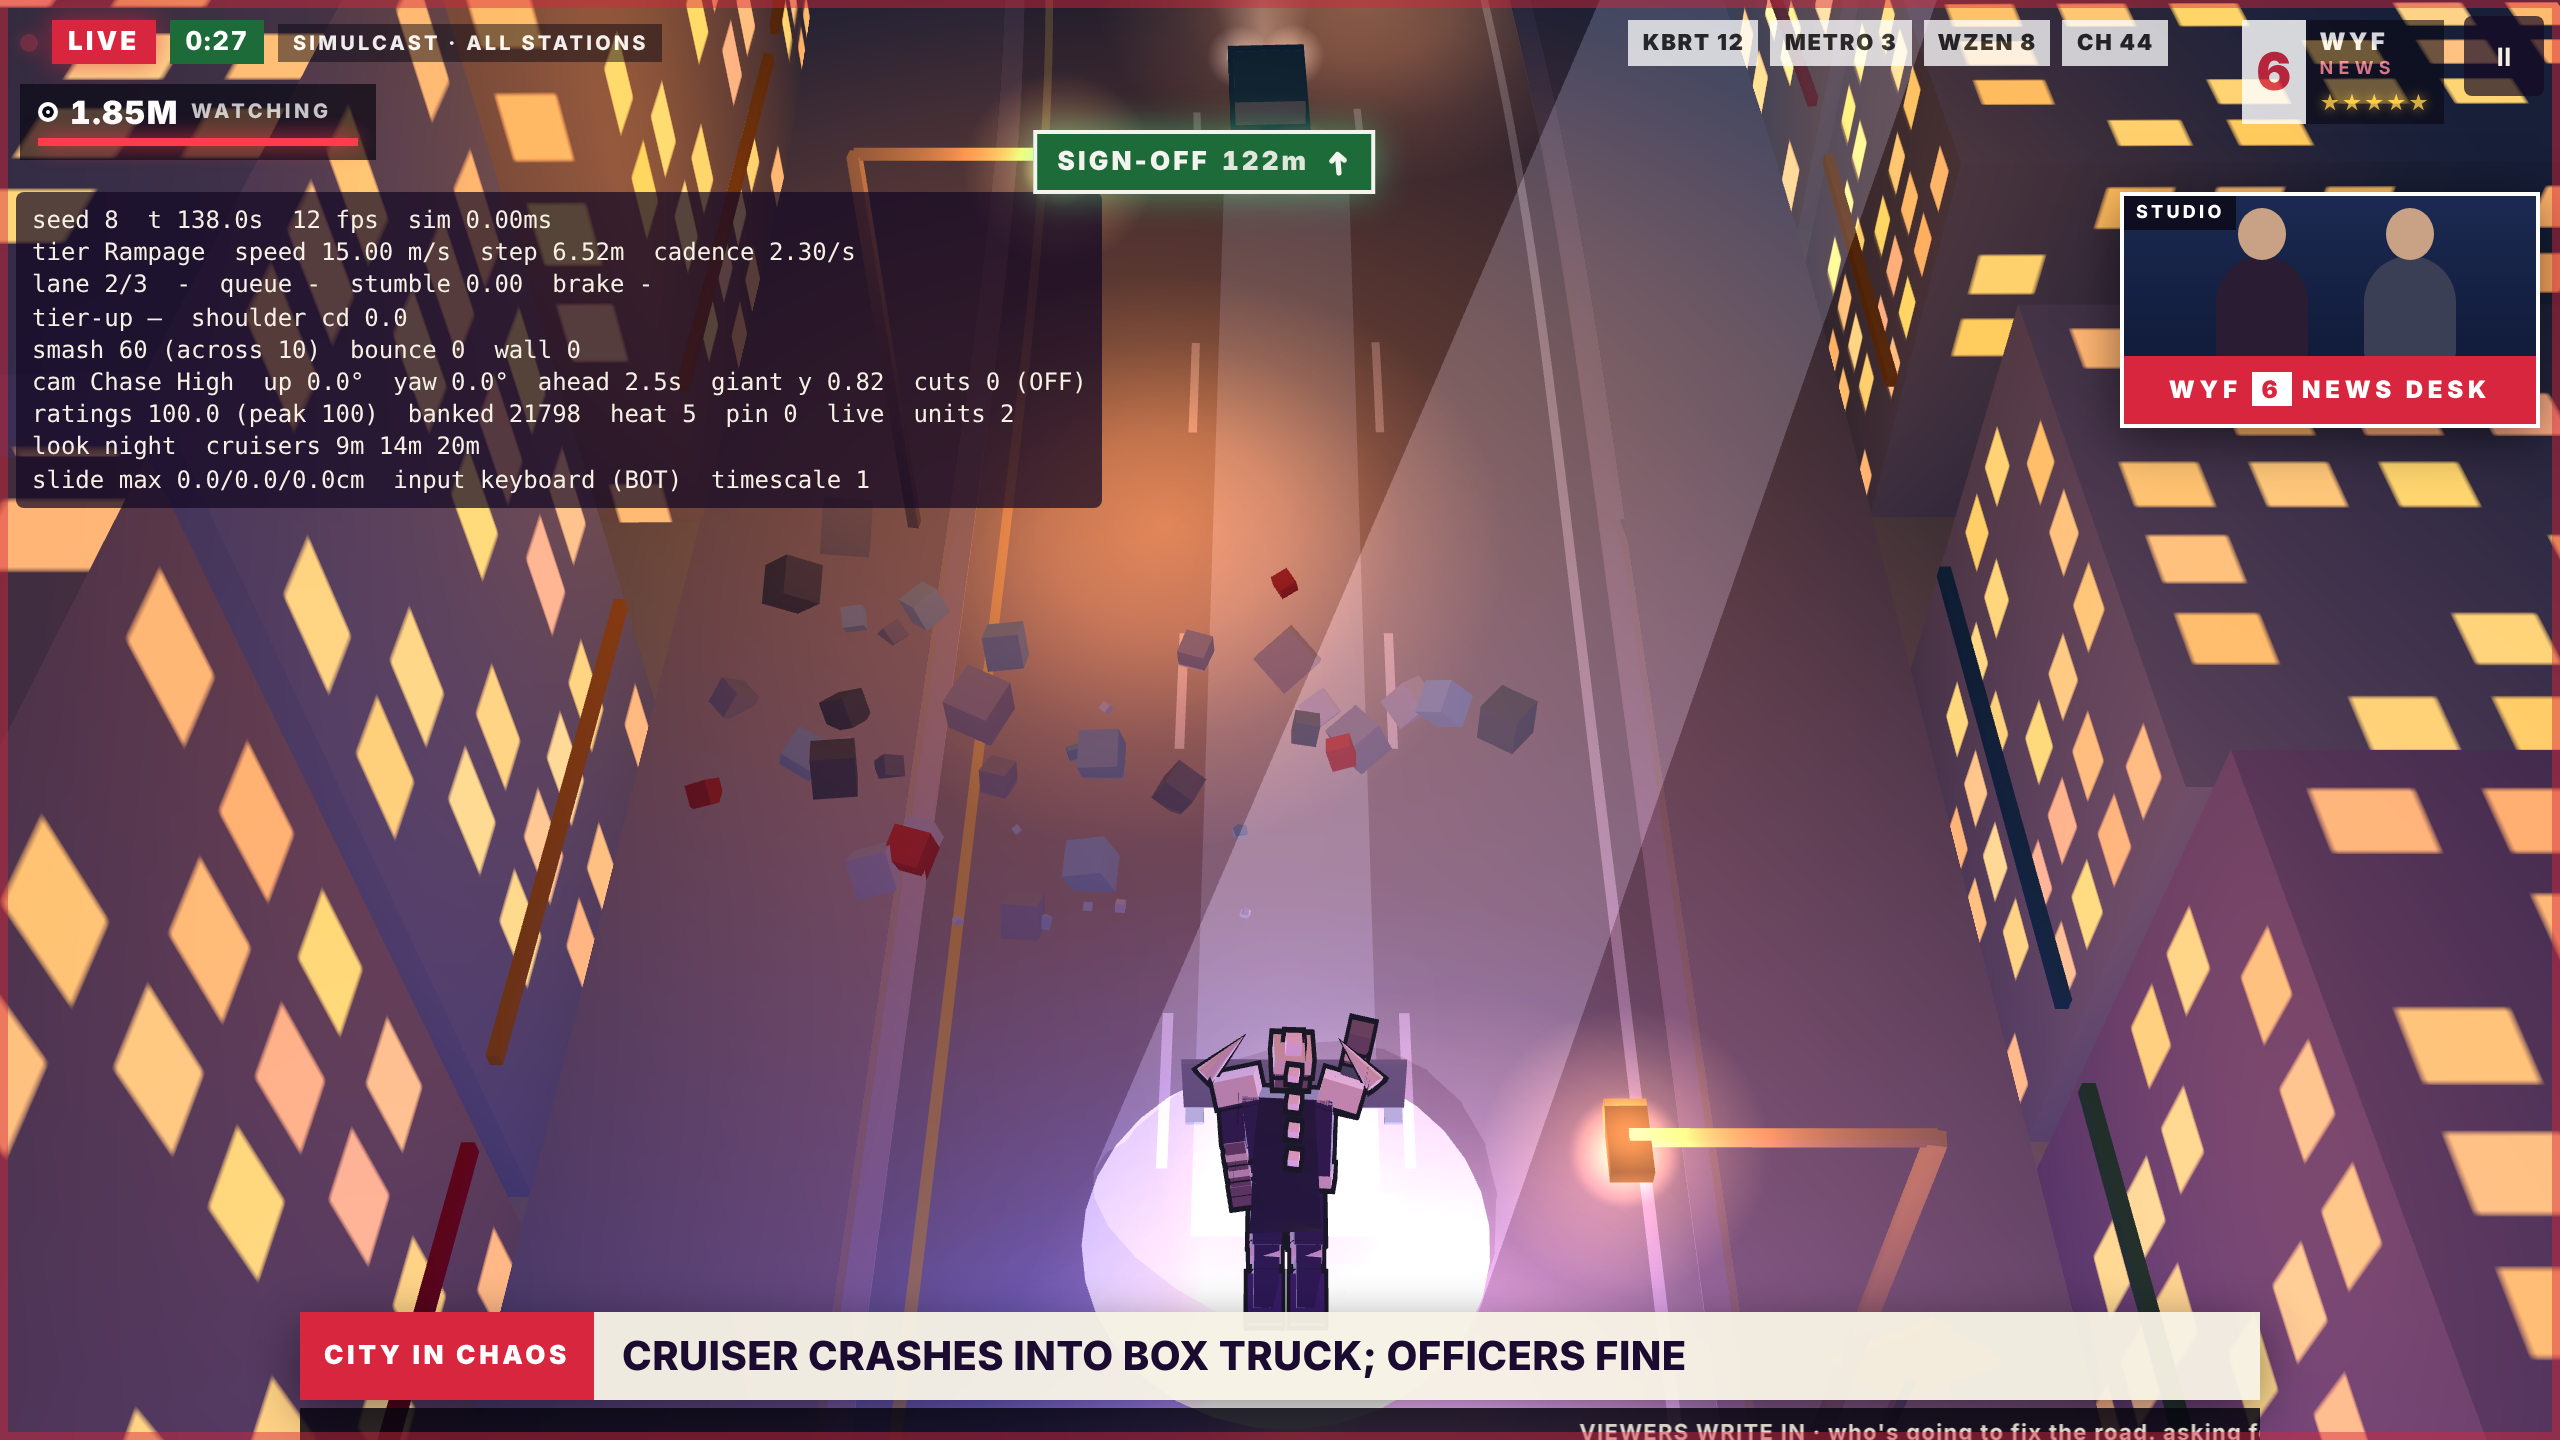
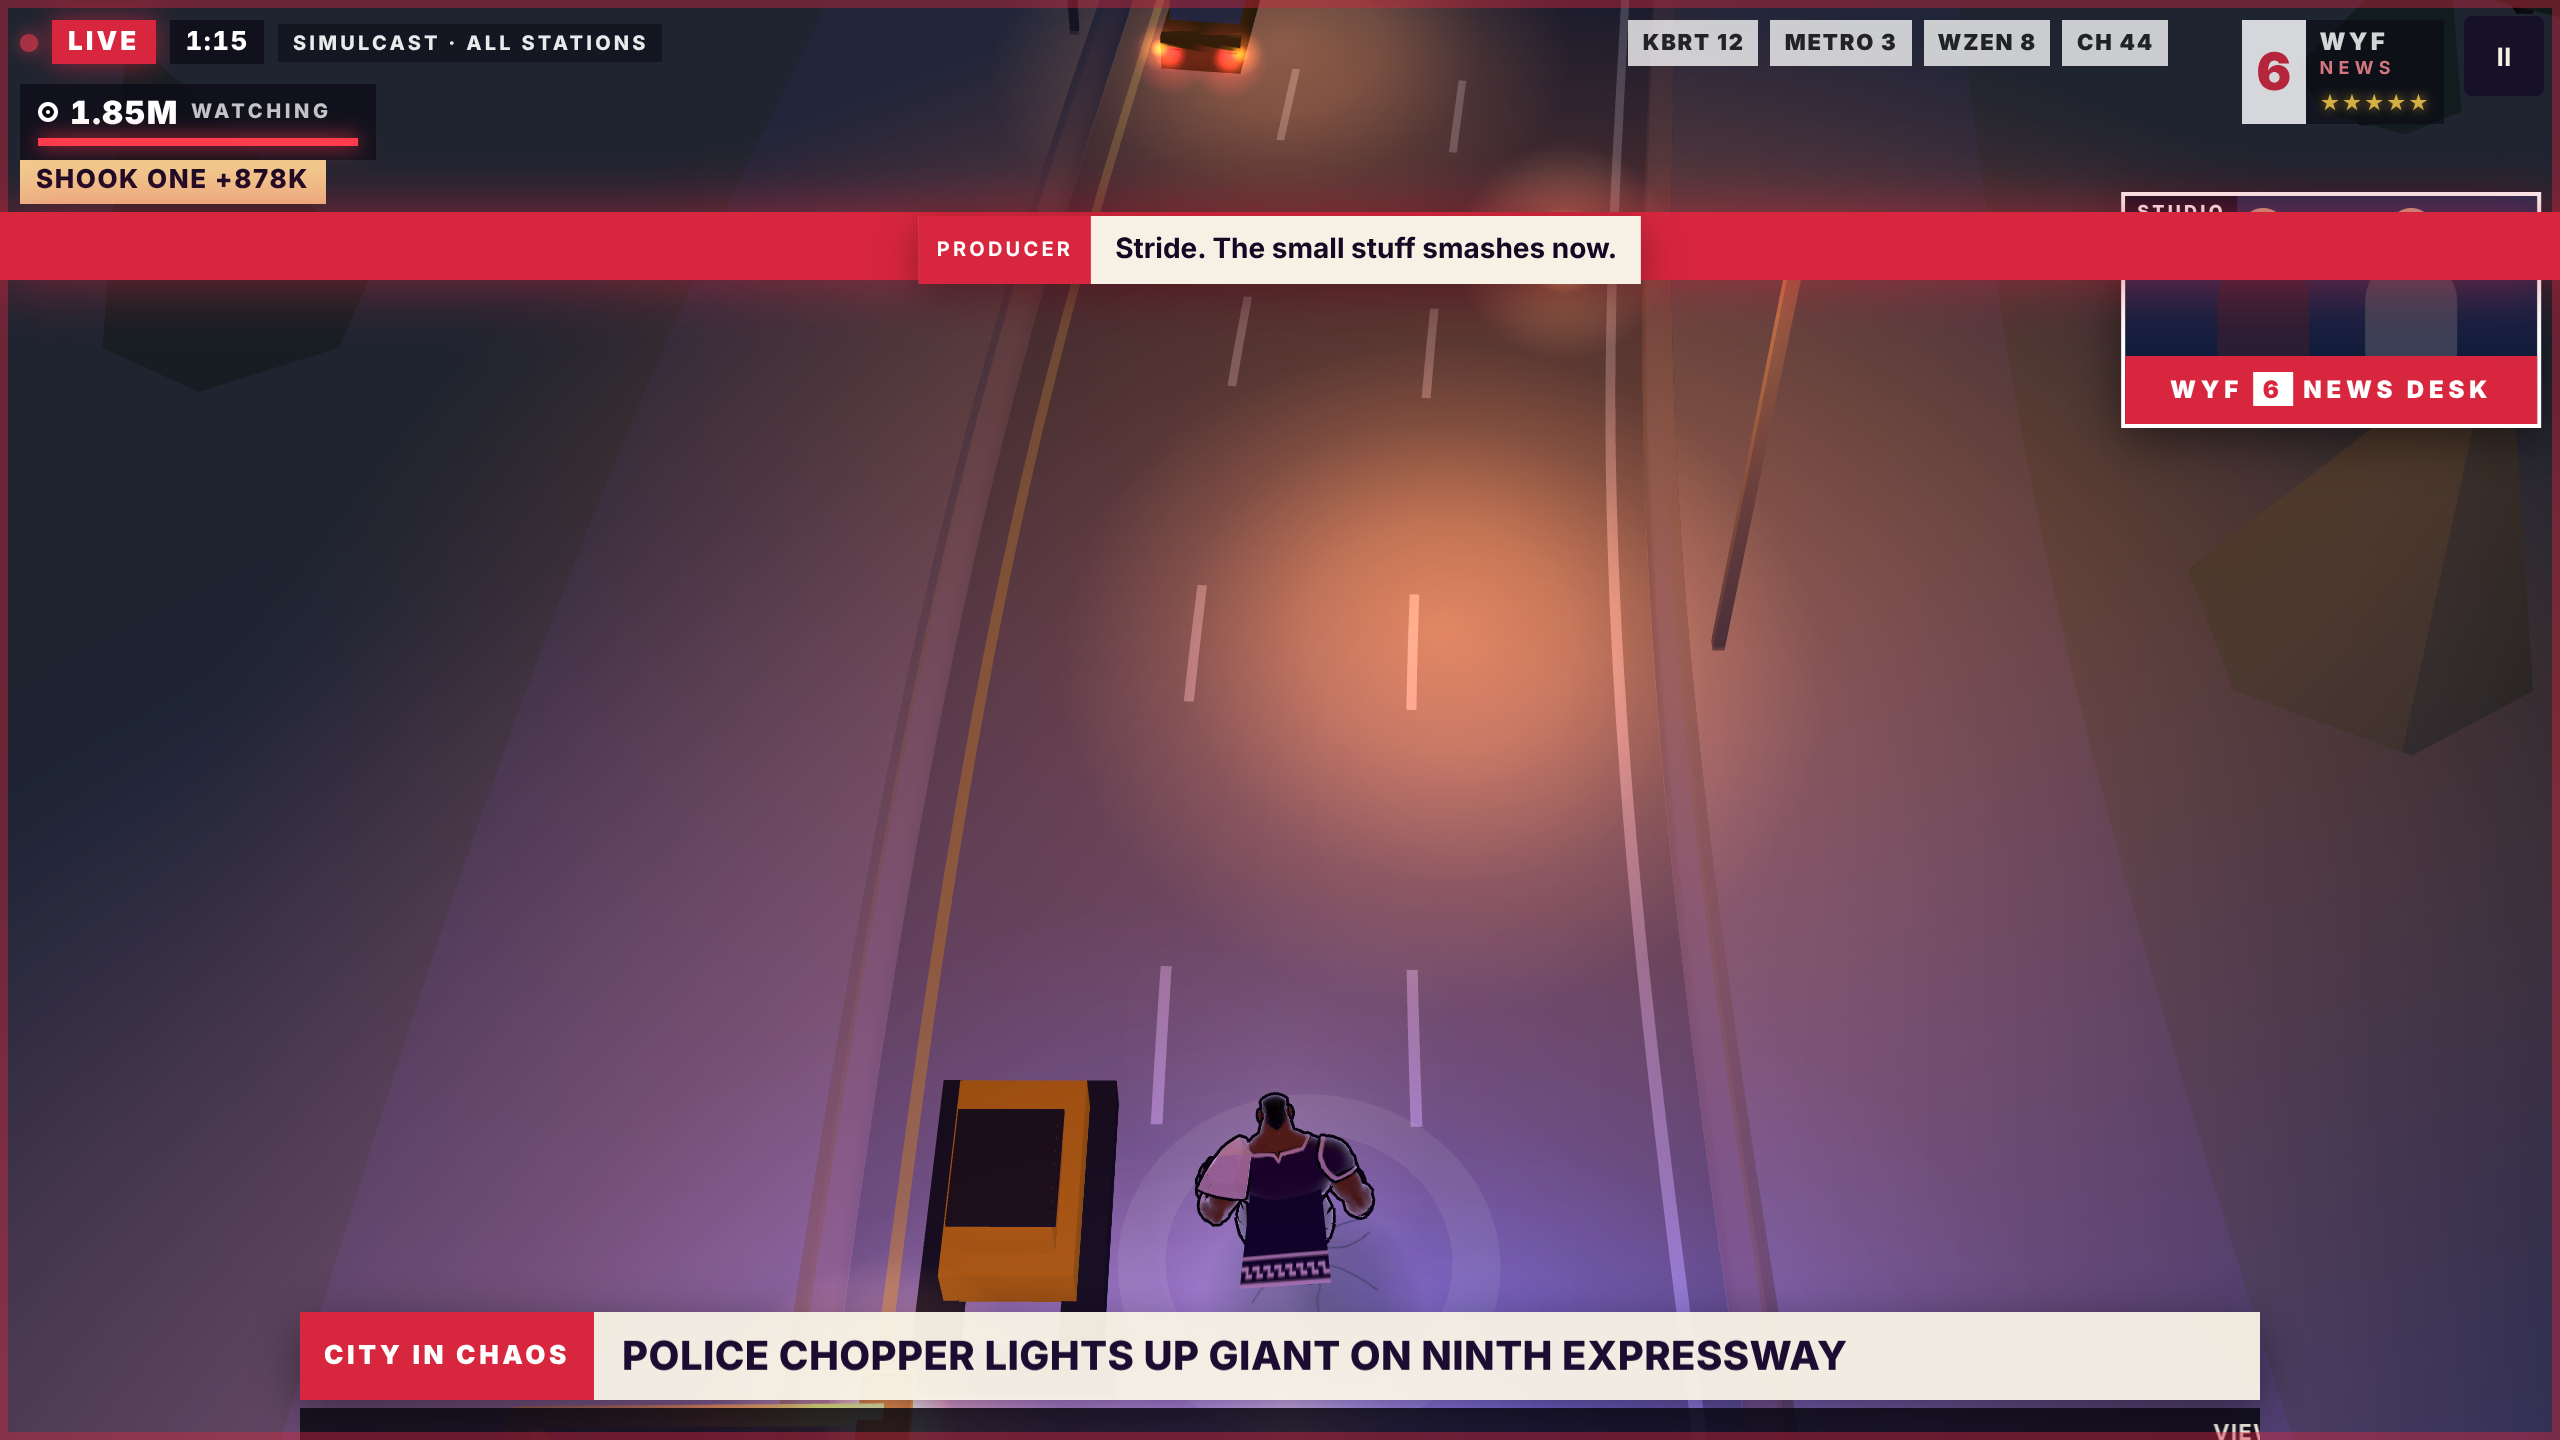
Police evidence on the merged build; soak numbers after the rebase
Claude-Session: https://claude.ai/code/session_01U6CEu36hrVhyNvxAEfgX3T

diff --git a/DECISIONS.md b/DECISIONS.md
@@ -5,8 +5,8 @@ Build-time decisions, working defaults for open questions (GDD §46), and deviat
 | Date | Decision | Why | Revisit |
 |---|---|---|---|
 | 2026-11-14 | **Police chopper spotlight (v0.3 §11), the fifth pursuer.** It joins at Heat 2+, at most one per 25s. It spawns ≥110m ahead (off camera) and hovers off the top of the frame until no other tell is live. Then it sweeps in, and its **1.5s tell** (a rising second rotor, a cool white pool and beam sliding across the road) starts on screen, like every tell. **Locked:** the pool rides him, his lane gets a pulsing stripe ahead of him ("marked for units"), and police spawn twice as fast. **Shake it:** two lane changes with under 3s between them (+lost track, "Giant Shakes Police Chopper"). A tunnel breaks line of sight too: that isn't a route choice, the road just goes there. After 12s it gives up with no award. Additive meshes only, no real light, so looks never recompile shaders. Soak (200 seeds): 400 locks, 394 shaken by the bot; the other threats spawn as often as before. | v0.3 §11 table; Mike: "go ahead with the chopper spotlight". Route choice isn't in the game yet, so overpasses don't count as cover (Mike: "IDK about the route choices yet"). | Mike's playtest (is twice-quickly too easy?) |
-| 2026-11-14 | **Police cars hit things (lead the chase).** Pursuit cruisers drive in lanes and hit what's in them. Alongside him they're **fixated**: they keep pace even when their lane is blocked ahead, and their only escape is the lane away from him. So running beside a Heavy row leads one into it. **Medium:** it ploughs through (+2 Ratings "collateral", the prop flies). **Heavy/immovable:** it crashes out of the chase, a Heavy prop goes flying with it, +8 Ratings (`policeCrash`, more than shaking a pursuer), a cut-away trigger (as a Heavy smash) and viewer video. The chyron names what it hit ("Cruiser Crashes Into Box Truck; Officers Fine"); nobody is shown hurt. **Readable from the chopper (§1):** crashes only happen at most 3m behind him or anywhere ahead of that; soak: 34 crashes, 0 outside the frame. The escort cruisers still never touch props. | Mike: police cars hitting objects "aids lead/chase gameplay and can link to attention, score". | Mike's playtest; escort crashes if wanted |
-| 2026-11-14 | **Fixed: cruisers could park in his lane.** A leaving cruiser's speed was max(0, his speed − 6), so at brake speed it stopped dead, and one alongside could end up in his lane. He then stood pinned against stopped police cars (7/200 soak broadcasts busted on Pin once the chopper added traffic; baseline max Pin 18). Now a leaving cruiser keeps ≥40% of his speed and pulls out of his lane. Soak: 0 Pin busts, max Pin 86 (the chopper's faster spawns add real pressure). | Being boxed in by parked cars isn't a choice the player made (§43.3). | — |
+| 2026-11-14 | **Police cars hit things (lead the chase).** Pursuit cruisers drive in lanes and hit what's in them. Alongside him they're **fixated**: they keep pace even when their lane is blocked ahead, and their only escape is the lane away from him. So running beside a Heavy row leads one into it. **Medium:** it ploughs through (+2 Ratings "collateral", the prop flies). **Heavy/immovable:** it crashes out of the chase, a Heavy prop goes flying with it, +8 Ratings (`policeCrash`, more than shaking a pursuer), a cut-away trigger (as a Heavy smash) and viewer video. The chyron names what it hit ("Cruiser Crashes Into Box Truck; Officers Fine"); nobody is shown hurt. **Readable from the chopper (§1):** crashes only happen at most 3m behind him or anywhere ahead of that; soak (200 seeds): 75 crashes, 1 just outside the frame (the soak allows ≤10%). The escort cruisers still never touch props. | Mike: police cars hitting objects "aids lead/chase gameplay and can link to attention, score". | Mike's playtest; escort crashes if wanted |
+| 2026-11-14 | **Fixed: cruisers could park in his lane.** A leaving cruiser's speed was max(0, his speed − 6), so at brake speed it stopped dead, and one alongside could end up in his lane. He then stood pinned against stopped police cars (7/200 soak broadcasts busted on Pin once the chopper added traffic; baseline max Pin 18). Now a leaving cruiser keeps ≥40% of his speed, pulls out of his lane, and if it's level with or ahead of him while still in his way it speeds up to clear him (instead of stalling half in his lane). A cruiser that isn't alongside him still hangs back 9m, as before; only one alongside is fixated. Soak (200 seeds): 0 Pin busts, max Pin 31 (it was 10 before; the chopper adds real pressure). | Being boxed in by parked cars isn't a choice the player made (§43.3). | — |
 | 2026-11-14 | **Reminder: run speed and run animation get another pass once there's far more polish** (Mike). The knobs are in `tuning.ts` (`tiers`, gait) and the authored Meshy run clips; the T panel (`?tune=1`) exports changed values. | Mike's request; the feel is good enough not to block content. | Phase 5–6 polish |
 | 2026-11-14 | **Authored run animations from Meshy's catalog** (Mike: the hybrid "still reads as jank", OK'd spending). Four clips at 3 credits each (12; 748 left), compared frame by frame (`tools/clips.mjs`): **Jog** "Run 2" (#14), **Stride** "Lean Forward Sprint" (#509), **Rampage** "Male Head-down Charge" (#512); "Standard Forward Charge" (#510) and the free rig clip were too upright. The whole body now plays the tier's clip (rotations only, 65 KB `runs.json`), crossfaded over 0.3s on tier changes and time-locked to the stride (each clip's left plant aligned to the gait's). The hips sit at the gait's height (bound, plant drop) and bank into lane changes. **Legs:** two-bone IK from his hip to a foot target that is the gait's plant spot while that foot is planted (blended in 0.06s, foot flat) and the clip's own foot arc in swing, knees bending the clip's way. So planted feet never slide and the cadence stays the gait's. Pose, Shoulder Check and Leap still take the arms procedural. The earlier hybrid (clip upper body on gait legs, locked chest lean) is gone. | Mike's playtest. | Mike's playtest |
 | 2026-11-14 | **Meshy giant's run de-janked: a hybrid of the gait and Meshy's run clip** (Mike: "looks a bit jank"). Diagnosed with a stride strip (`tools/strip.mjs`, eight moments × side/chase). Causes: the greybox arm pump on longer arms threw open hands overhead; legs copied greybox knee points, giving a deep squat; the greybox stride twist on a leaning spine swung the lean sideways; and **Meshy names the spine top-down** (Spine02 sits on the hips, Spine is the chest), so the first pass spread the lean upside-down. Now: **legs and hips** stay on the gait (two-bone IK from his own hips to the gait's planted feet, knees forward, hips 0.12m higher), so feet stay pinned and the stride and bound are unchanged. **The upper body plays Meshy's run clip** (rotations only, 22 KB `run.json`), time-locked to the stride (the clip's left plant aligned to the gait's), with arm swing per tier ×0.8 / ×1.05 / ×1.3. The **chest is held at the tier's lean** every frame (20° / 30° / 40°) while the clip keeps its sway and roll. Pose, Shoulder Check and Leap blend the arms back to the procedural pose. **Previews:** `vercel.json` `ignoreCommand` skips every build not on the production branch `claude/new-session-cxrh92` (Mike: B), since GITHUB_TOKEN is production-only. (The first version tested `VERCEL_ENV`, which isn't "production" at the ignore step, and cancelled production too.) | Mike's playtest. | Mike's playtest |
